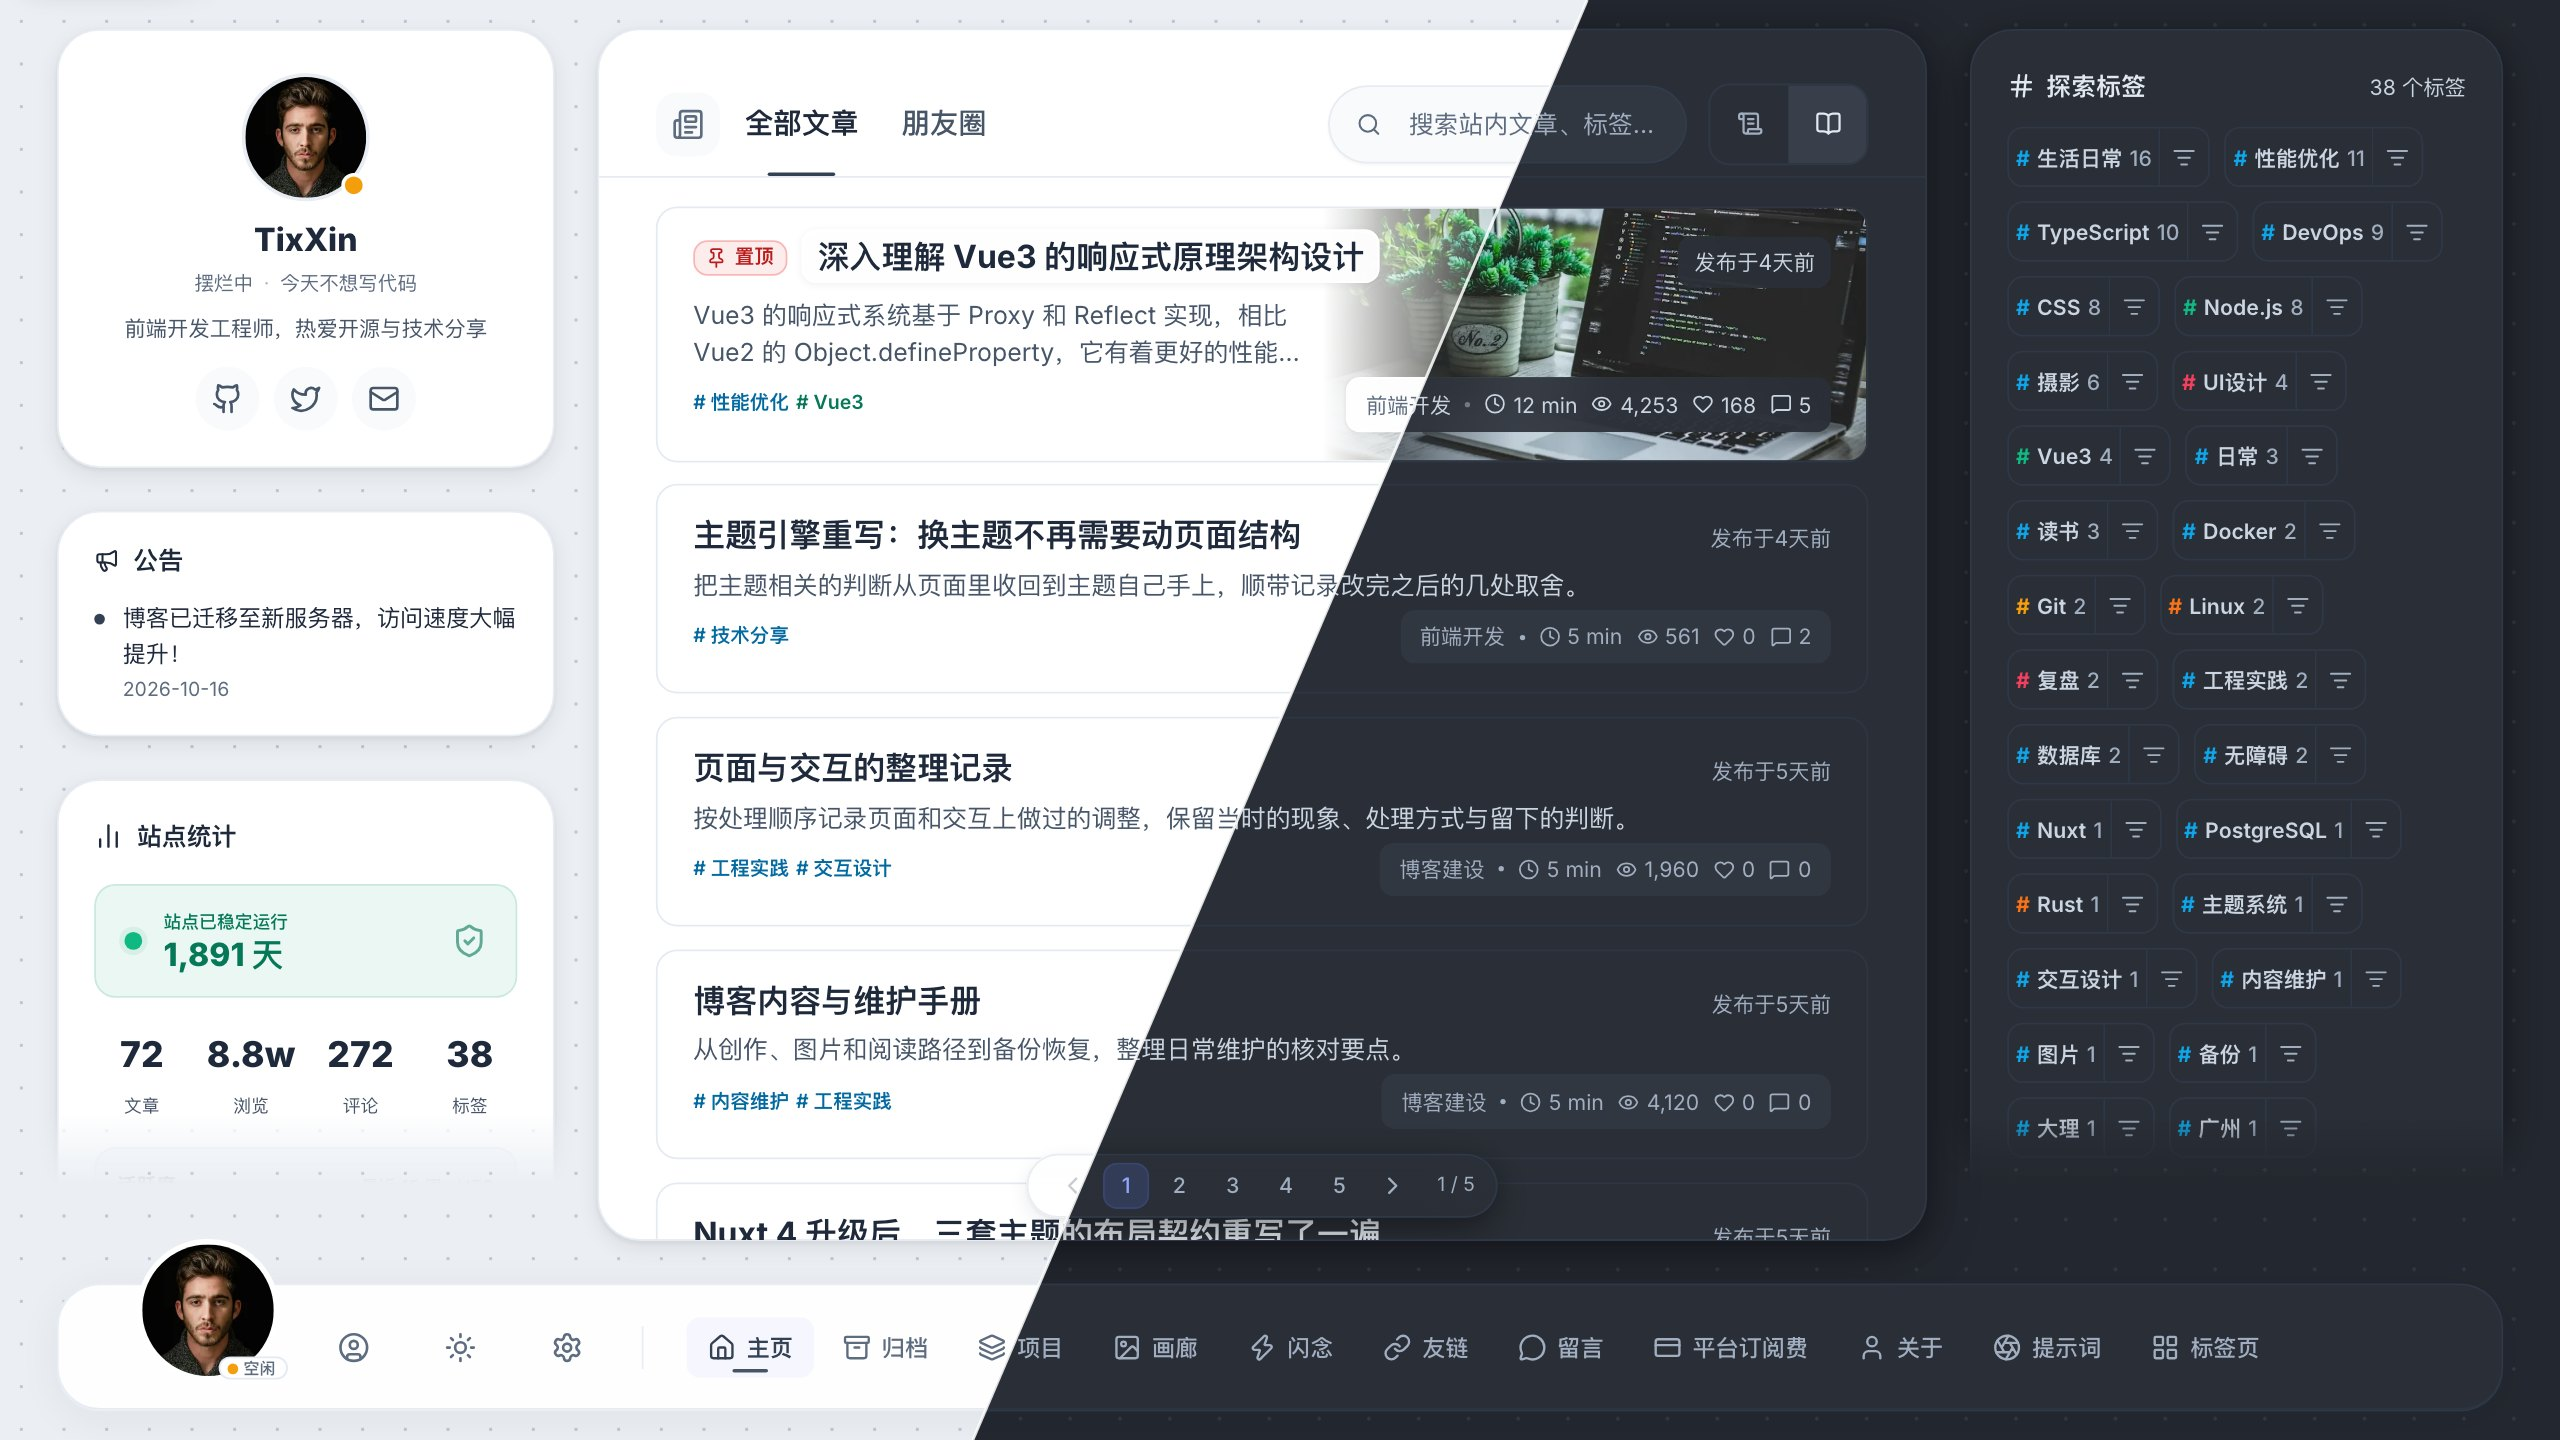
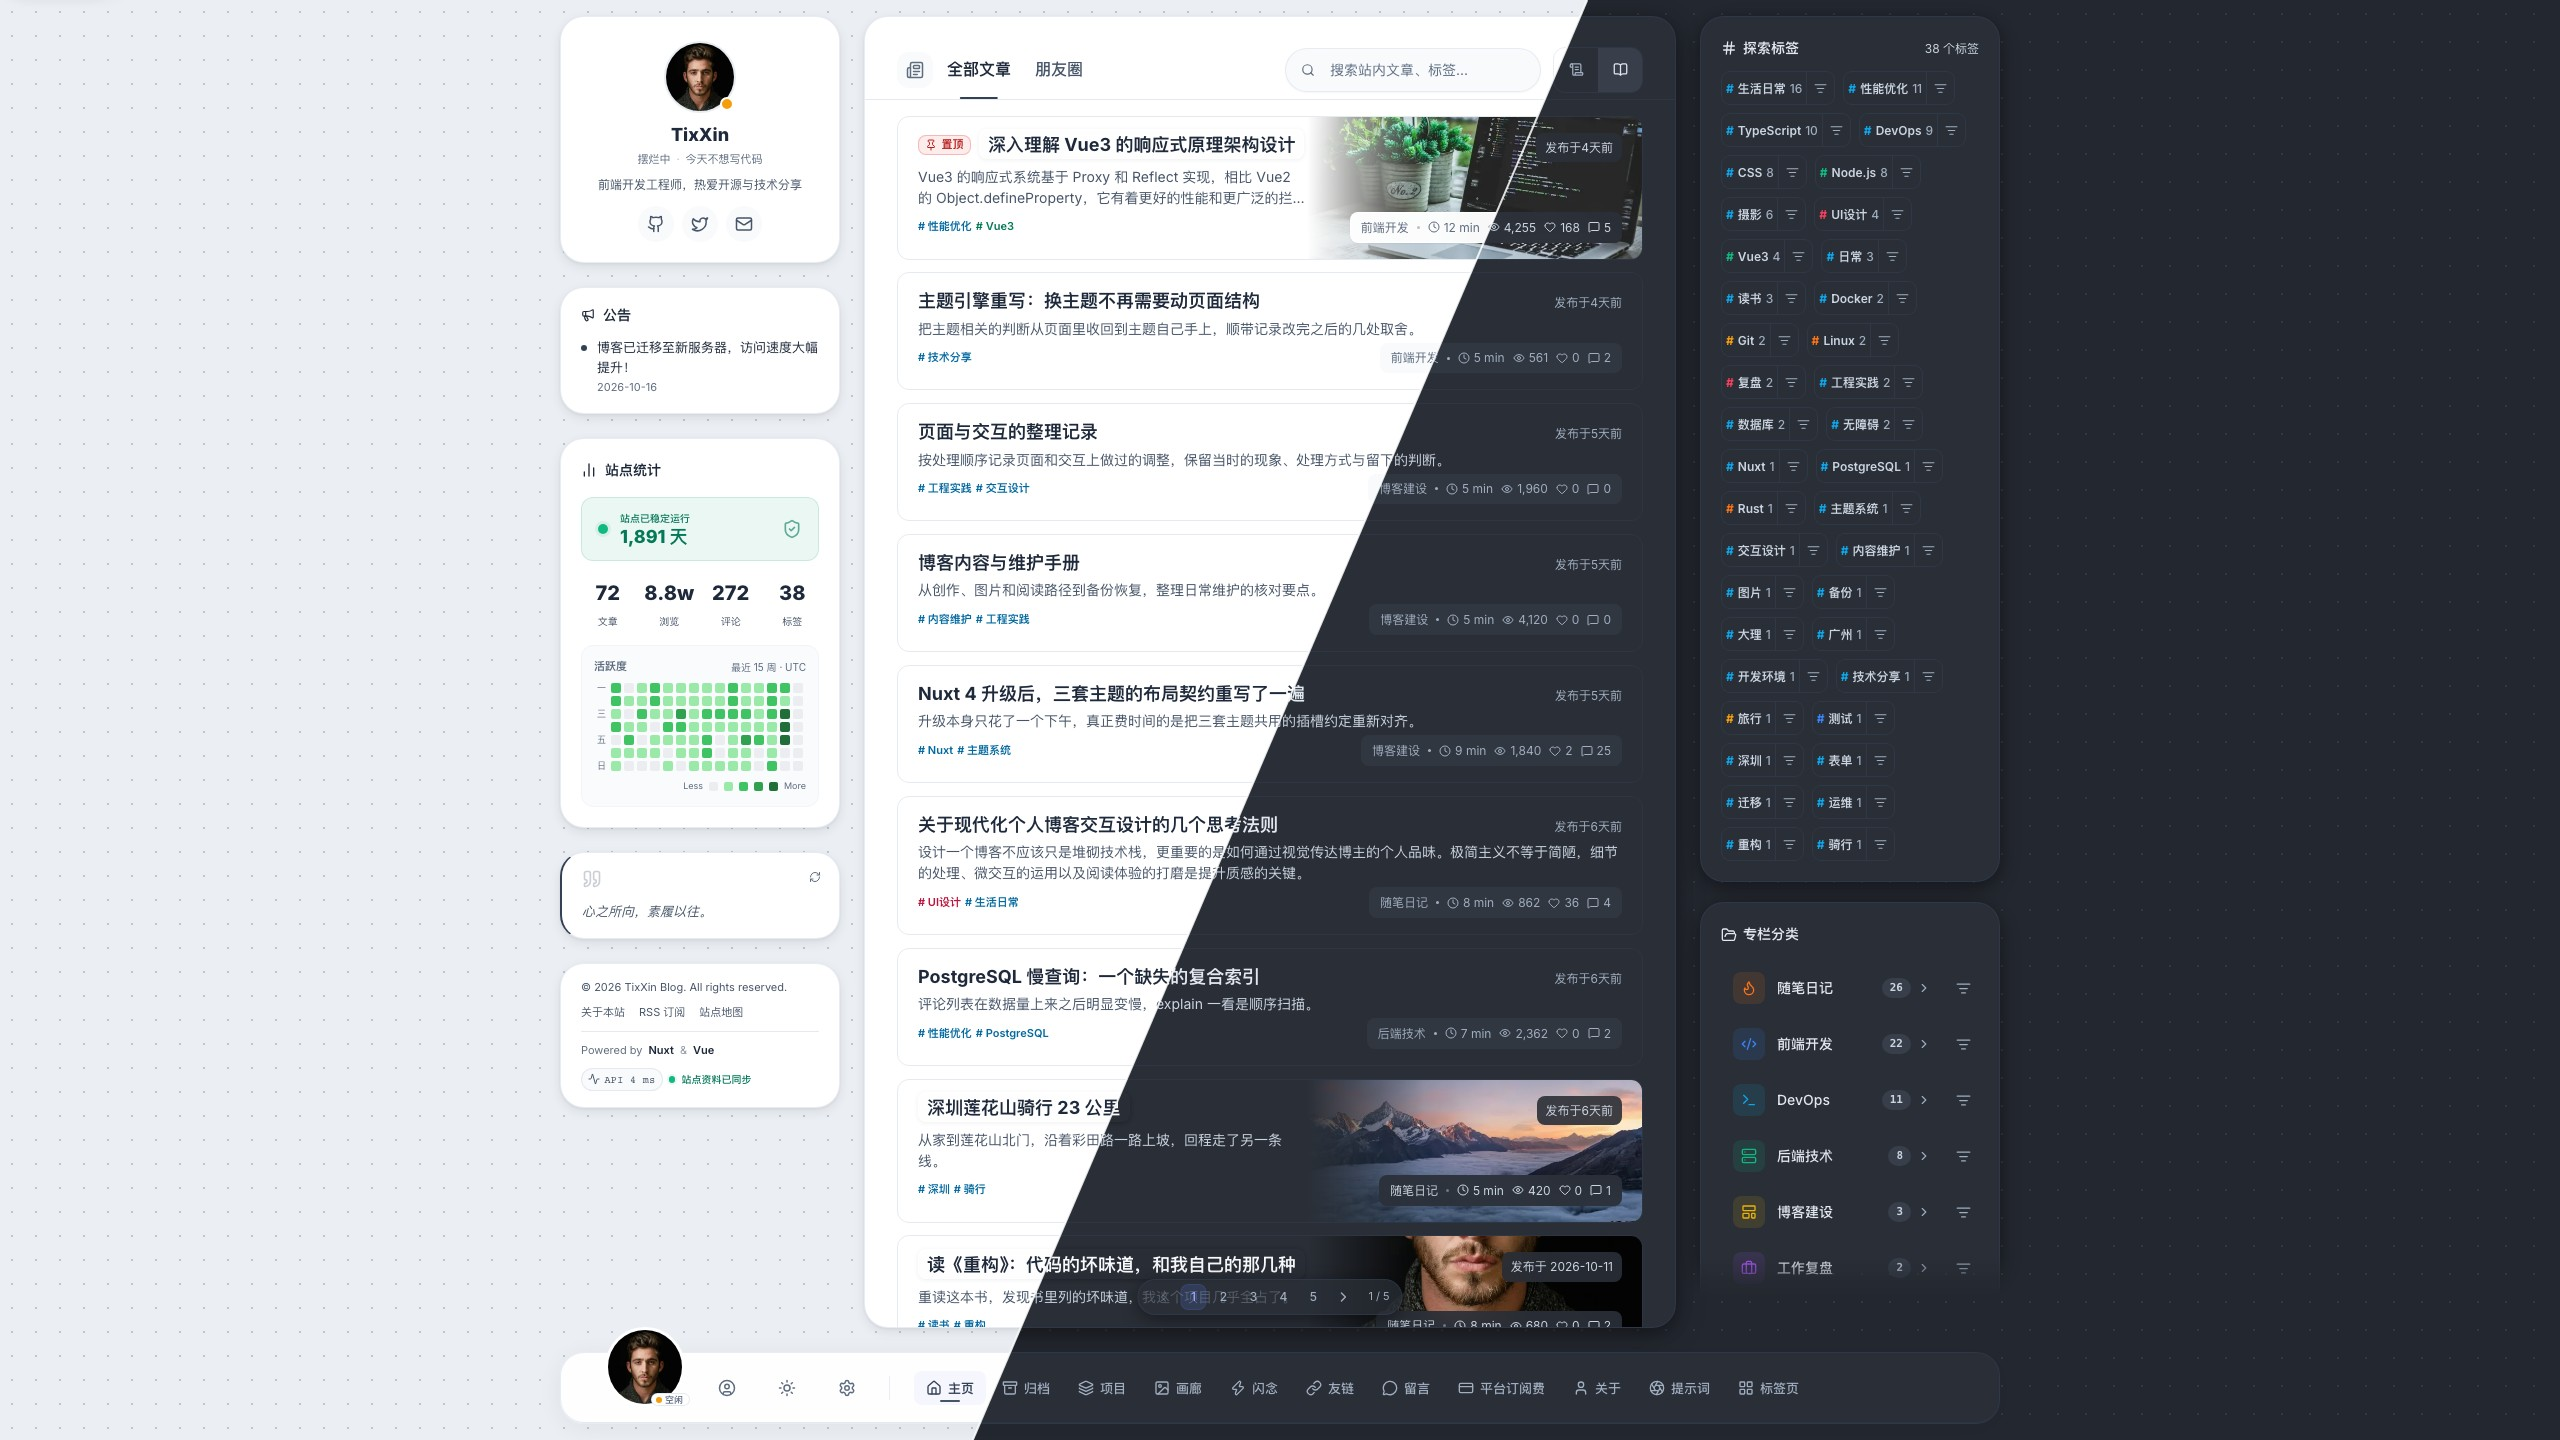
docs(readme): 截图改为真实 2K 视口并在首屏加入朋友圈明暗图
上一版按 1440 宽视口放大到 2560×1440 像素，布局实际是 1440 屏的满铺三栏，与 2K 屏四周留白、显示更多内容的真实状态不符；
改为 2560×1440 视口、像素密度 1 截取，并用已推送代码的生产构建截图，不受工作区进行中的改动和开发模式调试按钮影响。
首屏新增朋友圈页面的浅深色对角线分割图。

diff --git a/README.en.md b/README.en.md
@@ -20,7 +20,10 @@
 <p align="center">
   <img src="docs/assets/screenshots/nexus-home.jpg" alt="Home page in the default Nexus theme, light at top left and dark at bottom right" width="100%">
 </p>
-<p align="center"><sub>Default Nexus theme, light at top left and dark at bottom right, with the repository's demo data (Chinese interface; English is built in). The live site is the author's own blog and unrelated to the demo data.</sub></p>
+<p align="center">
+  <img src="docs/assets/screenshots/nexus-moments.jpg" alt="Moments page, light at top left and dark at bottom right" width="100%">
+</p>
+<p align="center"><sub>Home and moments pages in the default Nexus theme on a 2560×1440 screen, light at top left and dark at bottom right, with the repository's demo data (Chinese interface; English is built in). The live site is the author's own blog and unrelated to the demo data.</sub></p>
 
 ## Features
 

diff --git a/README.md b/README.md
@@ -20,7 +20,10 @@
 <p align="center">
   <img src="docs/assets/screenshots/nexus-home.jpg" alt="默认主题 Nexus 的首页，左上为浅色、右下为深色" width="100%">
 </p>
-<p align="center"><sub>默认主题 Nexus：左上浅色、右下深色，使用仓库自带的演示数据。在线示例是作者本人的博客，内容与演示数据无关。</sub></p>
+<p align="center">
+  <img src="docs/assets/screenshots/nexus-moments.jpg" alt="朋友圈页面，左上为浅色、右下为深色" width="100%">
+</p>
+<p align="center"><sub>默认主题 Nexus 在 2560×1440 屏幕下的首页与朋友圈：左上浅色、右下深色，使用仓库自带的演示数据。在线示例是作者本人的博客，内容与演示数据无关。</sub></p>
 
 ## 特性
 
